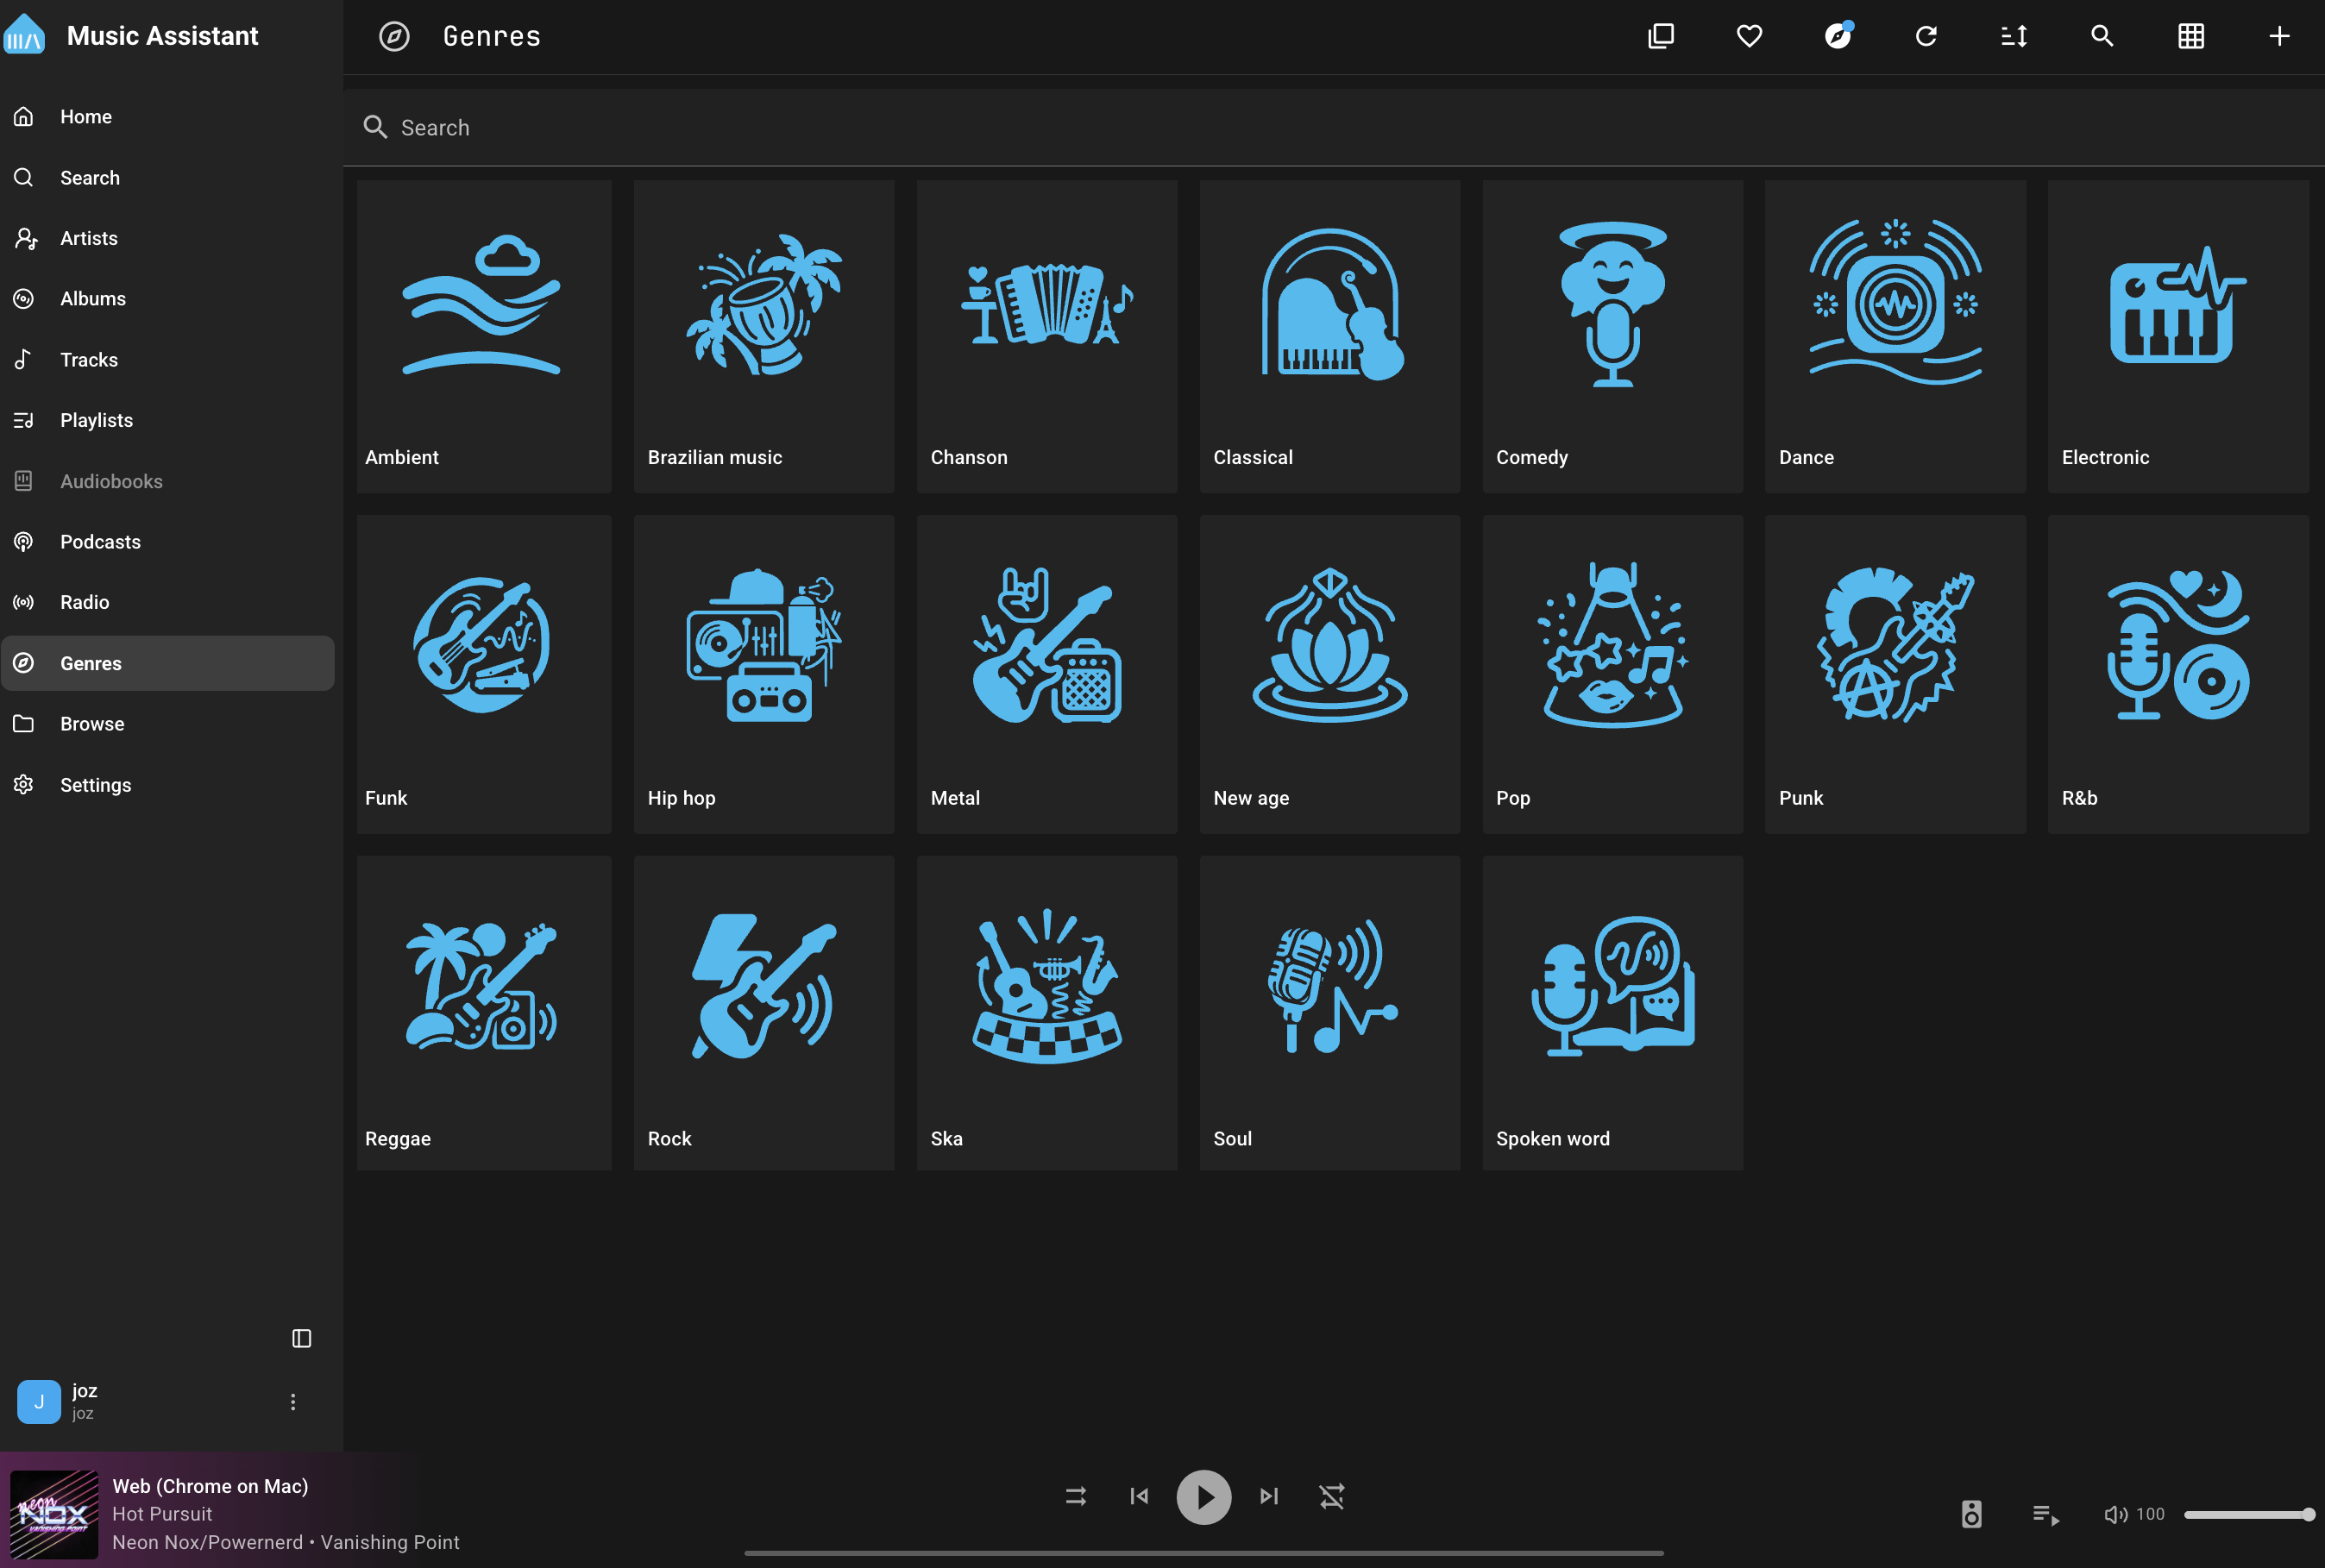
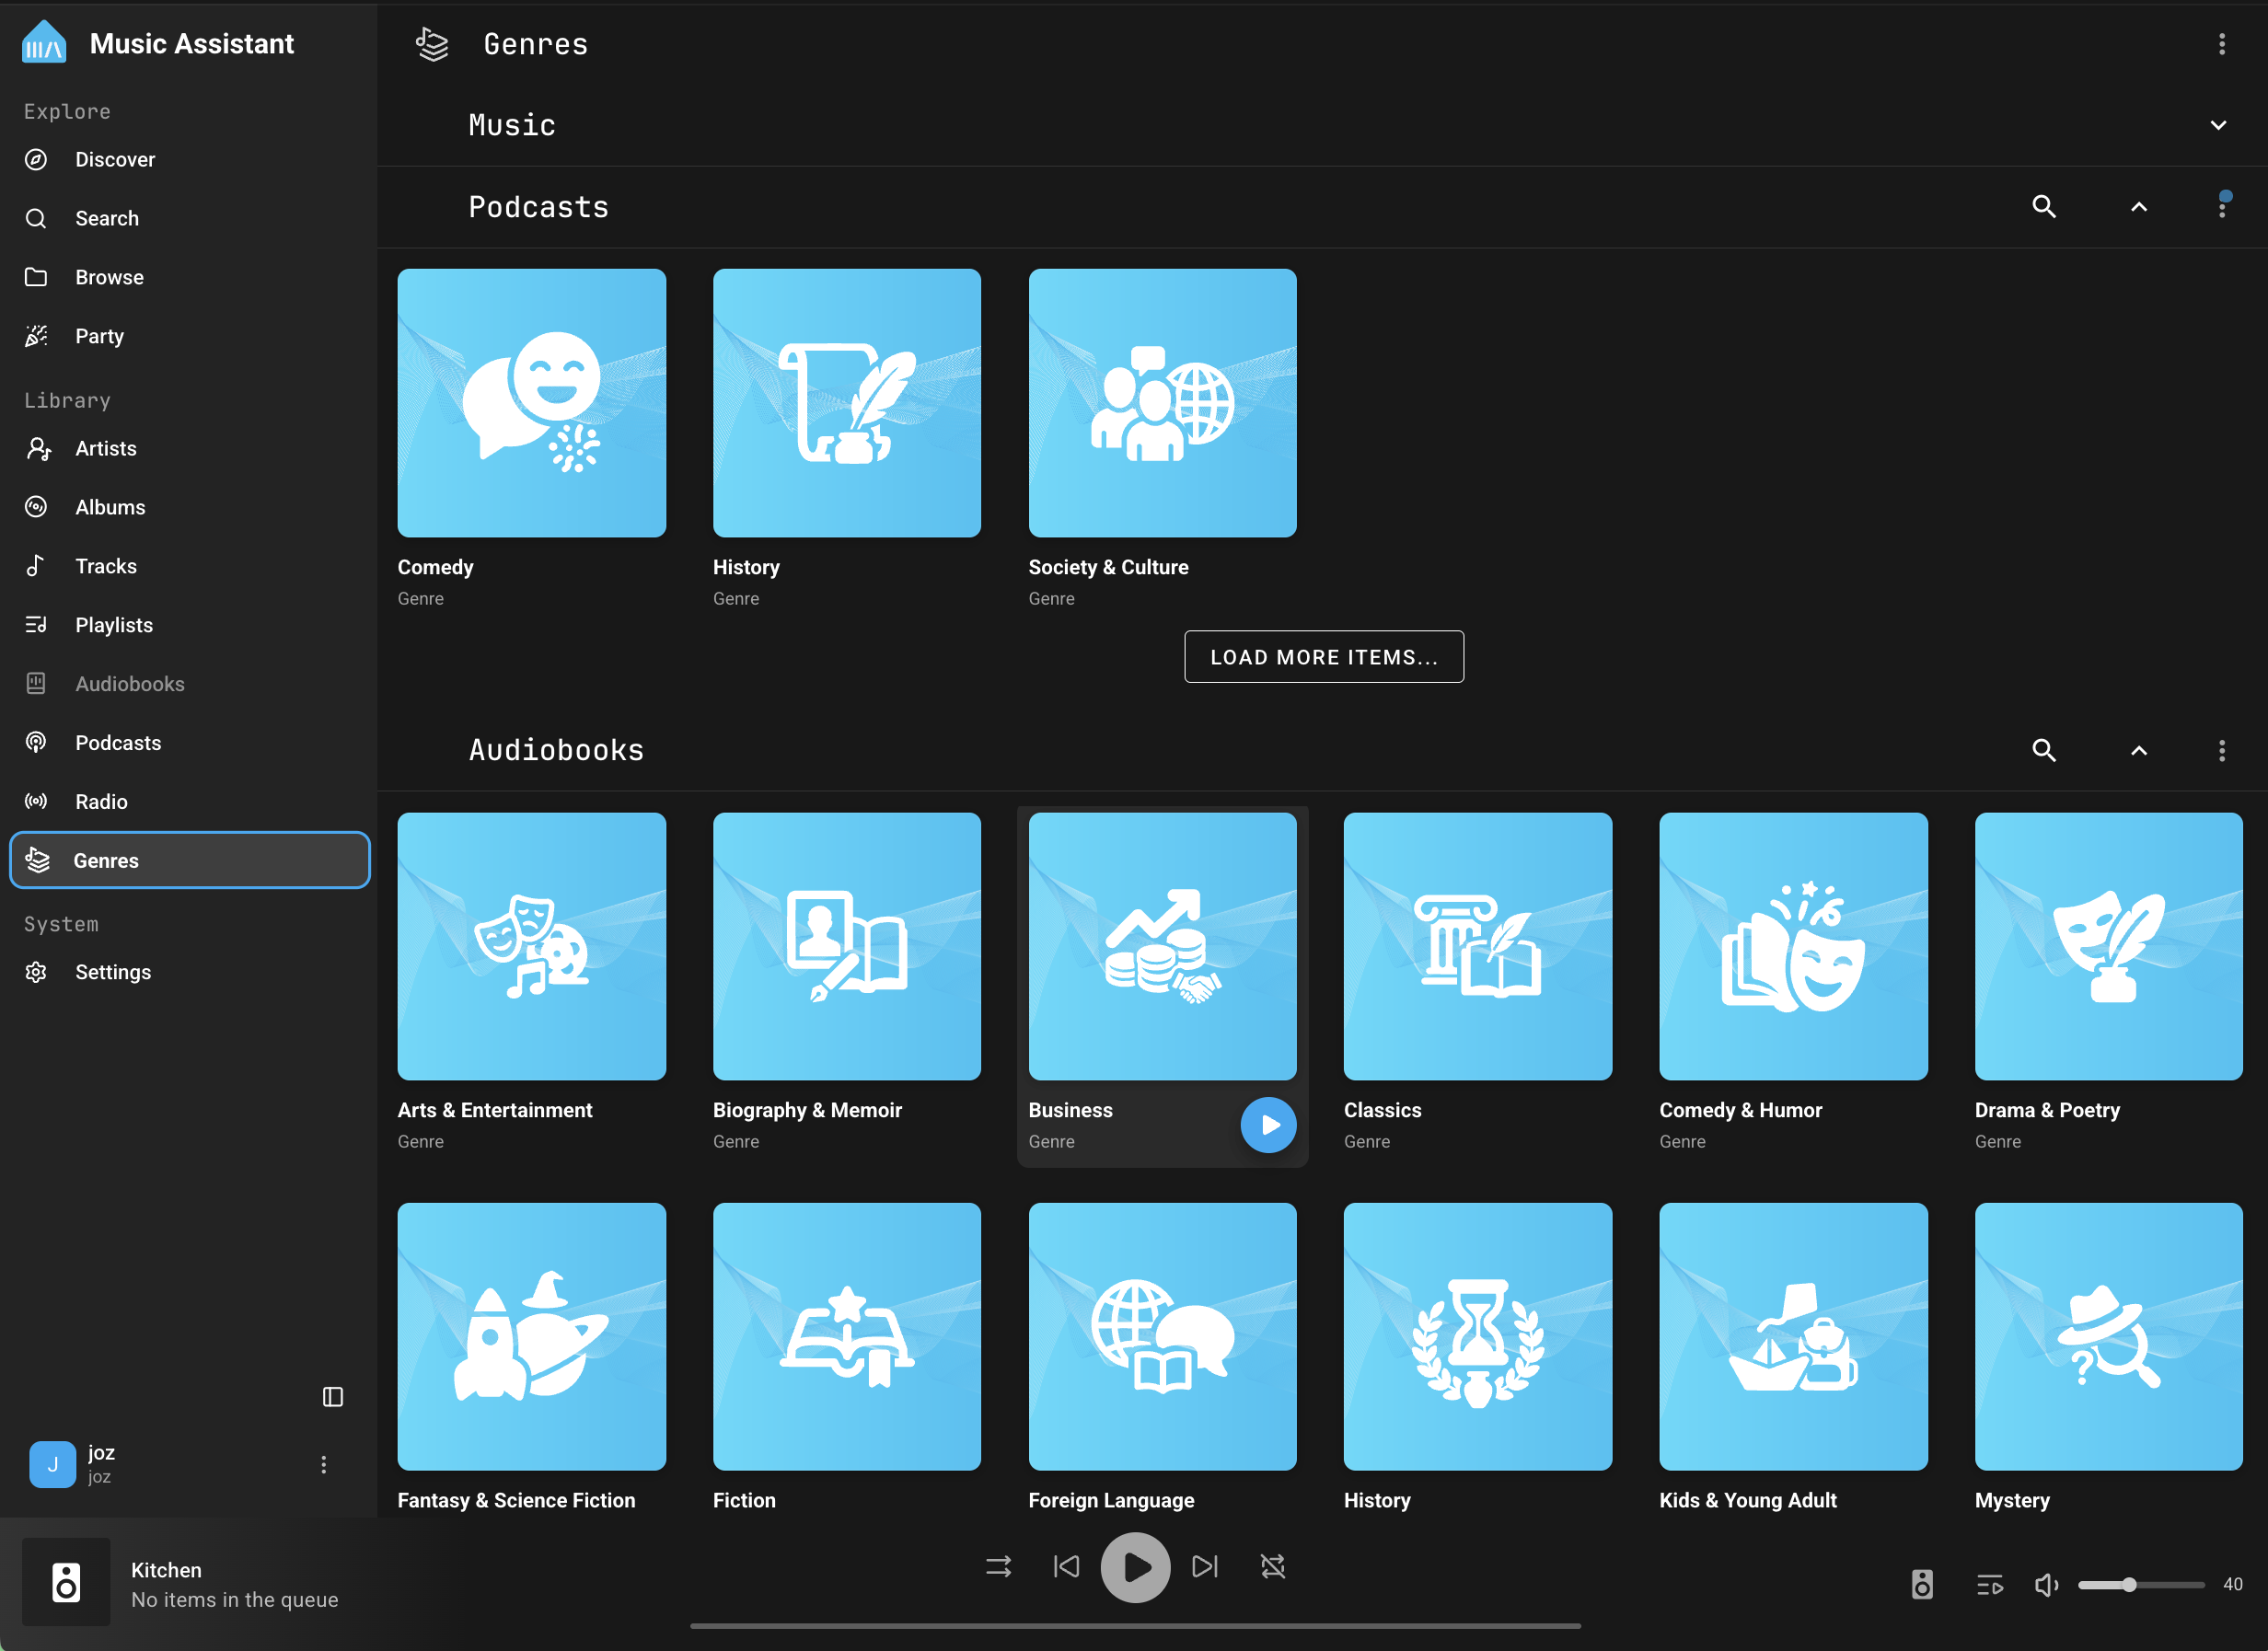
Update genre docs based on latest changes (#765)
Update genre docs to include the taxonomy/category info.
Added more screenshots to relevant sections, removed some older
screenshots and info

Pull request: Update genre docs based on latest changes
Update genre docs to include the taxonomy/category info.
Added more screenshots to relevant sections, removed some older screenshots and info

diff --git a/src/content/docs/genres.md b/src/content/docs/genres.md
@@ -5,17 +5,19 @@ description: A Walkthrough of the Music Assistant Genre Functionality
 
 # Genres
 
-Music Assistant includes a genre system that automatically categorises your music library. Genres are used to organise and discover music across all your providers, making it easy to browse by style, find similar music, and keep your library well-structured.
+Music Assistant includes a genre system that automatically categorises your library. Genres are split into three categories: **Music**, **Podcasts**, and **Audiobooks**. Genres from each stay separate, even when two categories share a name (like "Comedy" or "History"). Genres are used to organise and discover content across all your providers, making it easy to browse by style, find similar content, and keep your library well-structured.
 
 ## The Genre Library
 
-The genre library is accessible from the main navigation and displays all genres in your collection. By default, only genres that have media items linked to them are shown.
+The genre library is accessible from the main navigation and displays your genres as three collapsible sections: Music, Podcasts, and Audiobooks. By default, only genres that have media items linked to them are shown.
 
 ![image](/assets/screenshots/genres/genre-library.png)
 
+Each section loads a batch of genres at a time. Select **Load more items** at the bottom of a section to load more.
+
 ### Sorting
 
-Genres can be sorted using the sort option in the toolbar:
+Each section has its own toolbar, so Music, Podcasts, and Audiobooks can be sorted, filtered, and searched independently. Genres can be sorted using the sort option in the toolbar:
 
 - **Name** (ascending/descending)
 - **Sort Name** (ascending/descending)
@@ -26,8 +28,11 @@ Genres can be sorted using the sort option in the toolbar:
 
 The toolbar provides several filter options:
 
-- **Favorites Only** — Show only genres marked as favorites
-- **Hide Empty Genres** — Enabled by default. When active, genres with no linked media items are hidden from the list. Toggle this off to see all genres, including those awaiting media mappings
+- **Favorites Only**: Show only genres marked as favorites
+- **Hide Empty Genres**: Cycles through three views each time you select it:
+  - **Hide empty genres**: Default. Hides genres with no linked media items
+  - **Show only default genres**: Hides any custom genres you've added, showing only the built-in ones
+  - **Show all genres**: Shows every genre, including empty and custom ones
 
 ![image](/assets/screenshots/genres/genre-toolbar.png)
 
@@ -40,7 +45,8 @@ Use the search button in the toolbar to find genres by name. Genre names are mat
 Administrators can add new genres manually using the **Add Genre** option in the toolbar menu. This opens a dialog where you can provide:
 
 - **Genre name** (required)
-- **Sort name** (optional — used for custom sort ordering)
+- **Sort name** (optional, used for custom sort ordering)
+- **Media type**: which category the genre belongs to (Music, Podcasts, or Audiobooks). Defaults to Music
 - **Description** (optional)
 
 ![image](/assets/screenshots/genres/add-new.png)
@@ -55,17 +61,17 @@ Selecting a genre from the library opens its detail page. This page provides an 
 
 The header displays:
 
-- **Genre name** — Translated to the user's language for built-in genres
-- **Description** — Sourced from built-in genre descriptions or custom metadata. Clicking the description expands it to full length
-- **Favorite toggle** — Mark or unmark the genre as a favorite
-- **Provider icon** — Indicates where the genre is stored
+- **Genre name**: Translated to the user's language for built-in genres
+- **Description**: Sourced from built-in genre descriptions or custom metadata. Clicking the description expands it to full length
+- **Favorite toggle**: Mark or unmark the genre as a favorite
+- **Provider icon**: Indicates where the genre is stored
 
 ### Admin Actions
 
 Administrators see additional action buttons in the header:
 
-- **Merge** — Merge this genre into another genre (see [Merging Genres](#merging-genres))
-- **Delete** — Delete this genre from the library (see [Deleting Genres](#deleting-genres))
+- **Merge**: Merge this genre into another genre (see [Merging Genres](#merging-genres))
+- **Delete**: Delete this genre from the library (see [Deleting Genres](#deleting-genres))
 
 These actions are also available in the three-dot overflow menu.
 
@@ -91,10 +97,12 @@ Administrators can manage genre aliases from the detail page. Aliases allow mult
 
 The alias manager supports:
 
-- **Add Alias** — Create a new alias for this genre
-- **Link Alias** — Search for and link an existing alias from another genre
-- **Promote Alias** — Convert an alias into its own standalone genre
-- **Remove Alias** — Unlink an alias from this genre
+- **Add Alias**: Create a new alias for this genre
+- **Link Alias**: Search for and link an existing alias from another genre
+- **Promote Alias**: Convert an alias into its own standalone genre
+- **Remove Alias**: Unlink an alias from this genre
+
+A promoted alias always stays in the same category (Music, Podcasts, or Audiobooks) as the genre it came from.
 
 ## Genre Actions
 
@@ -112,6 +120,8 @@ To merge genres:
 ![image](/assets/screenshots/genres/genre-merge.png)
 
 NOTE: Merging is a destructive action. The source genres will be permanently deleted. All their aliases and media mappings are transferred to the target.
+
+NOTE: Genres can only be merged within the same category. The target picker only shows genres from the same category as the one(s) you're merging, and the **Merge into existing genre** option won't appear at all if your selection spans more than one category.
 
 ### Deleting Genres
 
@@ -143,6 +153,41 @@ To link items to a genre:
 ![image](/assets/screenshots/genres/genre-link-media.png)
 
 NOTE: The link to genre option is only available for items that are in your library. Items from external providers that have not been added to the library cannot be linked.
+
+## Managing Genres
+
+Administrators can manage genres in bulk from **Settings → System → Genre Management**.
+
+### Genre Library Administration
+
+This table lists every genre in your library across all three categories, and supports:
+
+- **Search**: Find a genre by name
+- **Media type filter**: Narrow the table to Music, Podcasts, or Audiobooks, or view **All** categories at once. When viewing All, a media-type icon next to each genre shows which category it belongs to
+- **Show all genres**: Toggle between all genres, non-empty genres only, or default genres only
+- **View**: Choose which columns are shown
+
+![image](/assets/screenshots/genres/genre-management-mediatype-filter.png)
+
+Selecting one or more genres in this table gives you the same actions available from the genre library: merge, delete, and restore excluded genres.
+
+Excluded (globally hidden) genres are listed below the active ones, greyed out, with an option to restore them.
+
+### Restoring Default Genres
+
+Two options are available if you want to bring back genres that were removed or excluded:
+
+- **Restore Missing Defaults**: Adds back any missing default genre, without touching your existing genres or custom mappings. Choose to restore All categories at once, or just Music, Podcasts, or Audiobooks.
+
+![image](/assets/screenshots/genres/restore-missing-defaults.png)
+
+- **Full Restore (Reset All)**: Deletes every genre and alias, recreates only the defaults, and remaps all existing media items to the new genres. All custom genres, alias mappings, and media associations are lost. This always restores every category. There's no option to limit it to just one.
+
+![image](/assets/screenshots/genres/full-restore.png)
+
+CAUTION: Full Restore is permanent and cannot be undone. You'll be asked to confirm twice before it runs.
+
+![image](/assets/screenshots/genres/full-restore-sure.png)
 
 ## Genres on Media Items
 